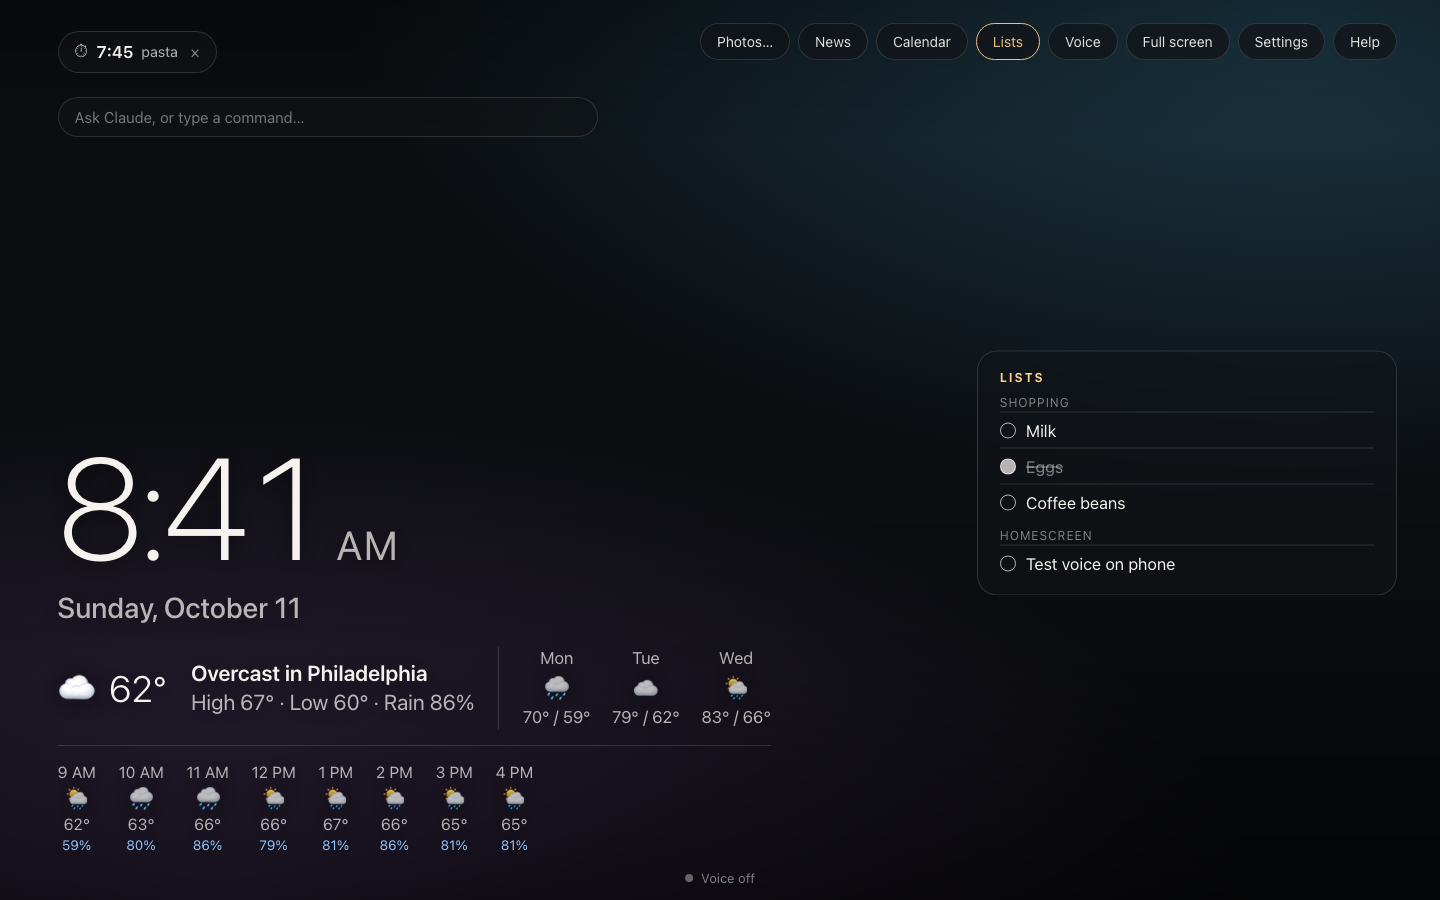
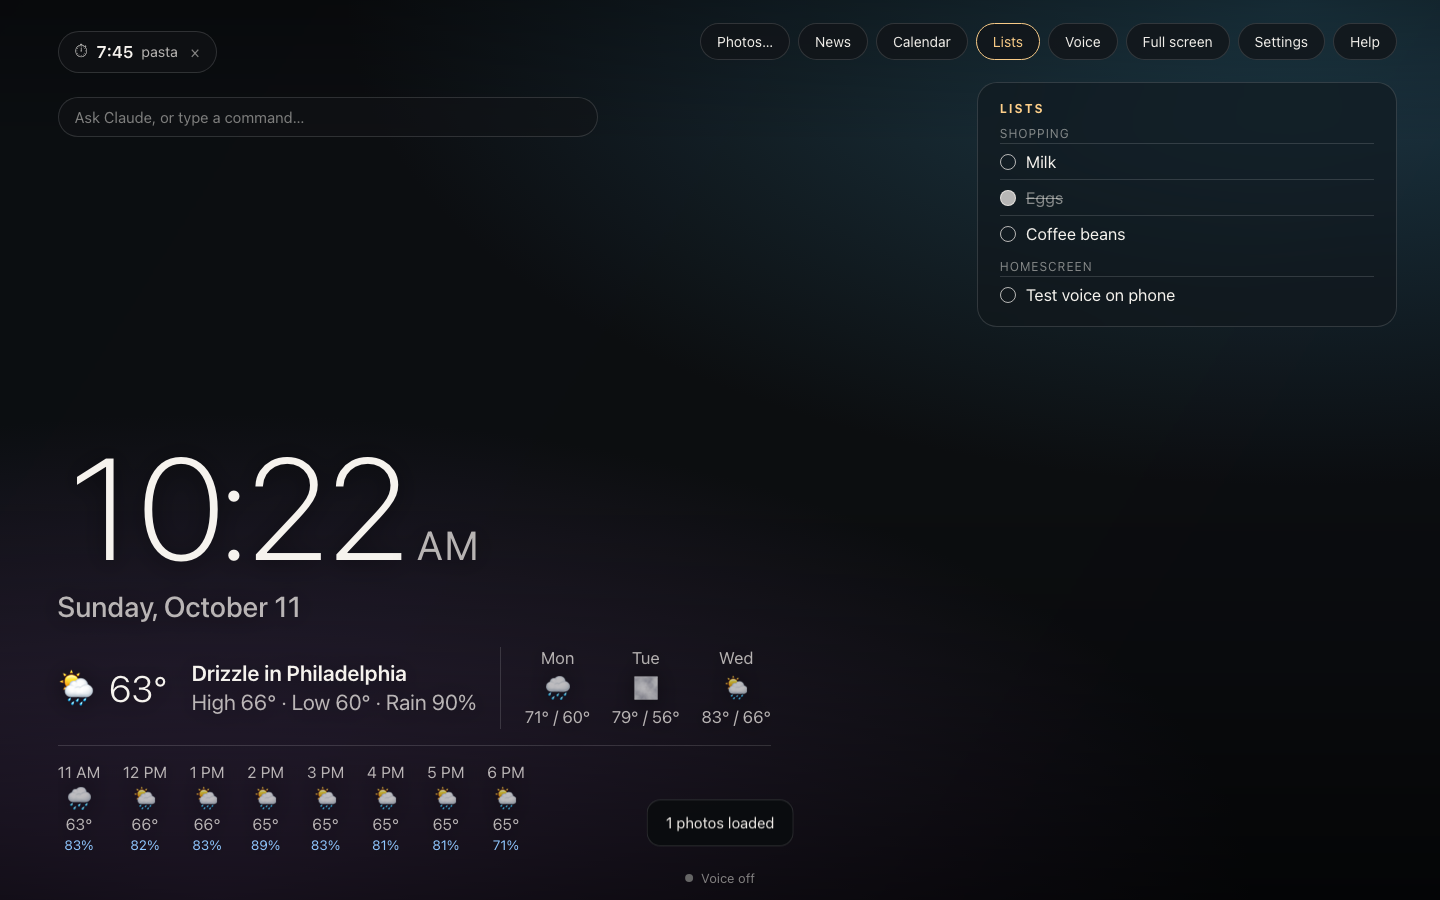
Cards start at the top right, a safe gap below the buttons
The right-hand column was centred vertically. It now starts 22px below the button bar, measured from where the bar actually ends so a wrapped two-row bar is respected. On narrower windows where the bar reaches the left column, the timers and Claude box also start below it.

diff --git a/index.html b/index.html
@@ -99,7 +99,7 @@
   #cInput::placeholder{color:var(--faint)}
 
   /* ---------- right column ---------- */
-  #side{position:fixed;right:3vw;top:calc(50% + 2.5vh);transform:translateY(-50%);width:min(420px,32vw);display:flex;flex-direction:column;gap:14px;
+  #side{position:fixed;right:3vw;top:calc(2.6vh + 62px);width:min(420px,32vw);display:flex;flex-direction:column;gap:14px;
     max-height:86vh;overflow:hidden}
   .card{display:none;background:var(--glass);border:1px solid var(--line);border-radius:20px;padding:18px 22px 14px;
     backdrop-filter:blur(26px) saturate(1.3);-webkit-backdrop-filter:blur(26px) saturate(1.3)}
@@ -1741,12 +1741,21 @@
   const portrait = matchMedia('(max-width:700px) and (orientation:portrait)'), landscape = matchMedia('(max-height:500px) and (orientation:landscape)');
   function placeSide(){
     const s = $('#side');
-    if (!portrait.matches && !landscape.matches){ s.style.top = ''; s.style.maxHeight = ''; return; }
+    if (portrait.matches || landscape.matches) $('#leftTop').style.top = '';
+    if (!portrait.matches && !landscape.matches){
+      // Larger screens: cards start at the top right, a safe gap below the buttons (which may wrap to two rows).
+      const bar = $('#bar').getBoundingClientRect(), lt = $('#leftTop');
+      const top = bar.bottom + 22;
+      s.style.top = top + 'px';
+      // On narrower windows the buttons reach the left column: start it below them too.
+      lt.style.top = ''; if (bar.left < lt.getBoundingClientRect().right + 12) lt.style.top = (bar.bottom + 14) + 'px'; s.style.maxHeight = Math.max(0, window.innerHeight - top - window.innerHeight * 0.04) + 'px';
+      return;
+    }
     const top = $('#leftTop').getBoundingClientRect().bottom + 12;
     const bottom = portrait.matches ? $('#corner').getBoundingClientRect().top - 16 : window.innerHeight - 12;
     s.style.top = top + 'px'; s.style.maxHeight = Math.max(0, bottom - top) + 'px';
   }
-  if (window.ResizeObserver){ const ro = new ResizeObserver(placeSide); ro.observe($('#leftTop')); ro.observe($('#corner')); }
+  if (window.ResizeObserver){ const ro = new ResizeObserver(placeSide); ro.observe($('#leftTop')); ro.observe($('#corner')); ro.observe($('#bar')); }
   window.addEventListener('resize', placeSide);
   try{ portrait.addEventListener('change', placeSide); landscape.addEventListener('change', placeSide); }catch(e){}
   placeSide();
